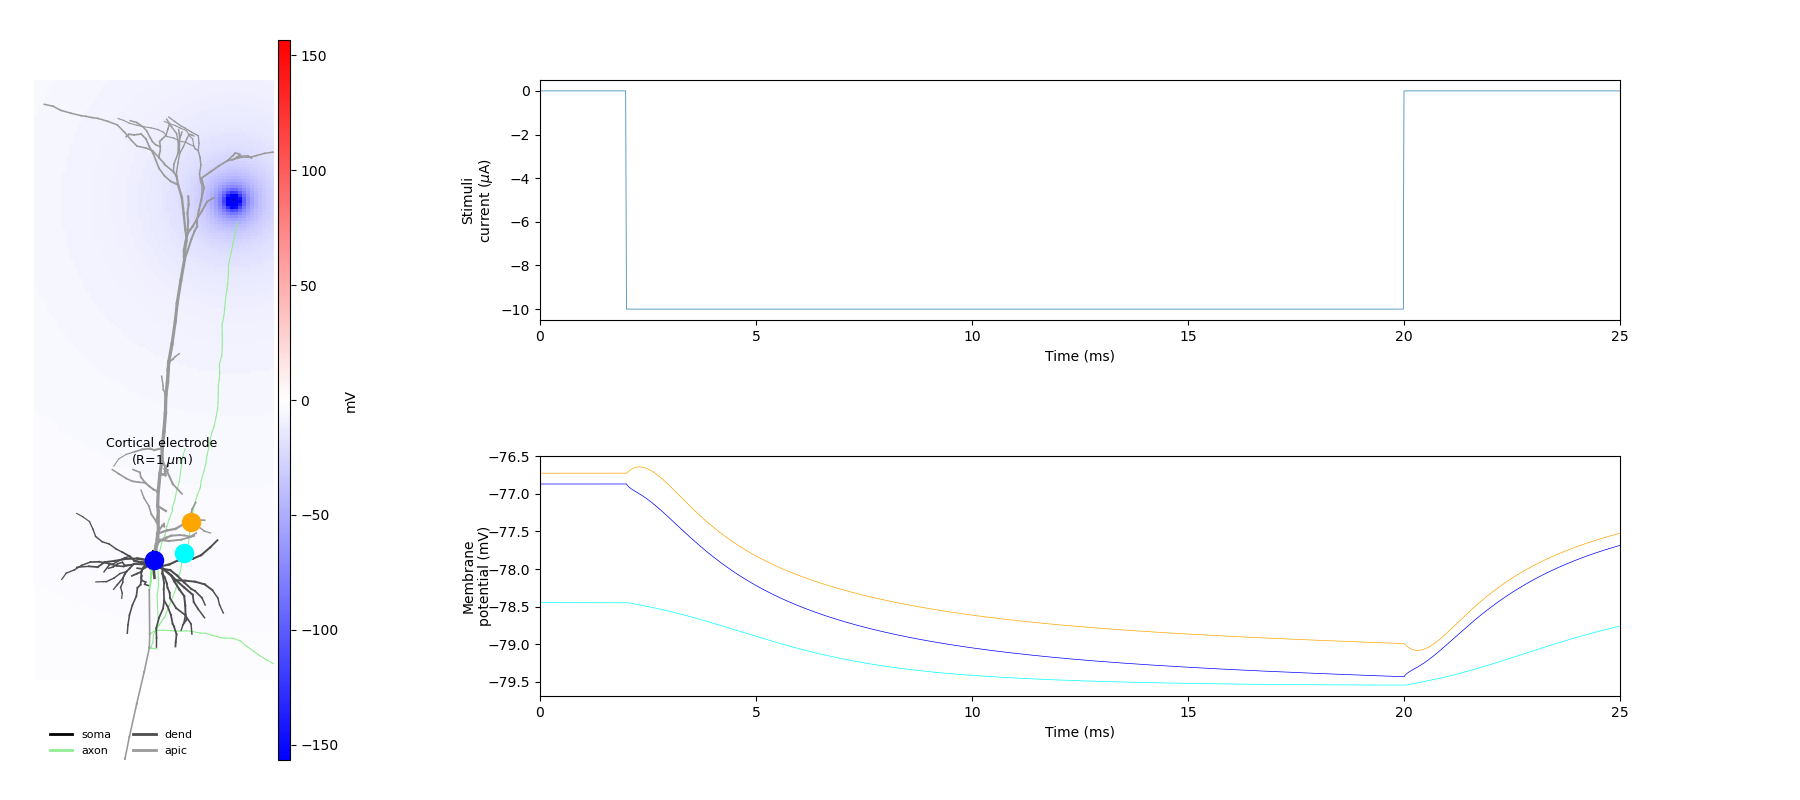
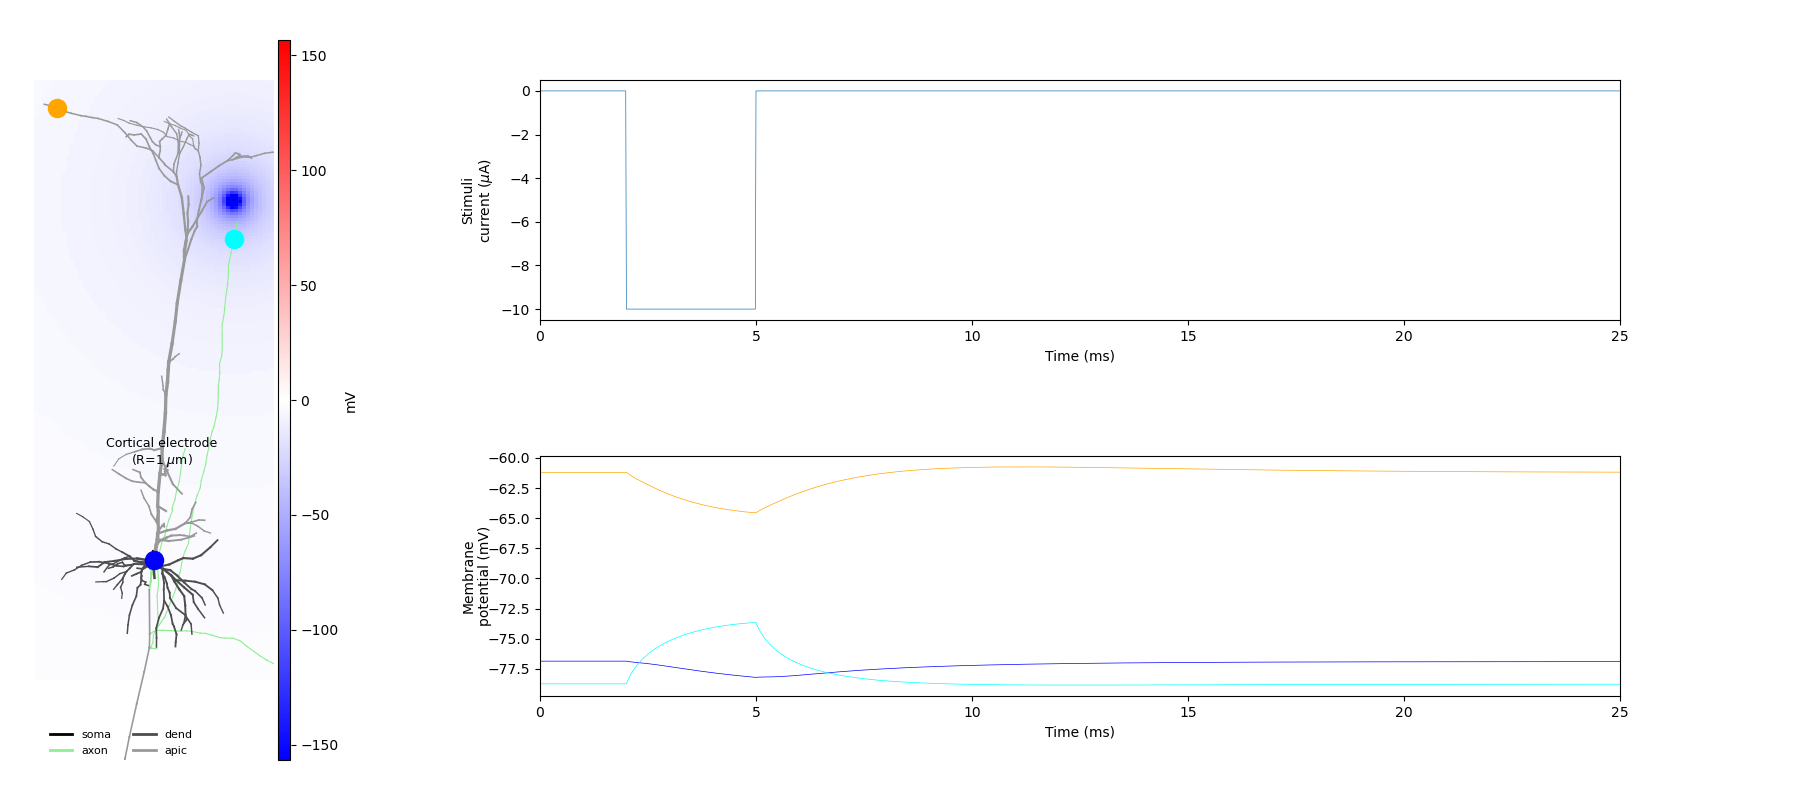
Working on changing measure_idxs from comparment to coordinates

diff --git a/main.py b/main.py
@@ -9,7 +9,11 @@ import sys
 import time
 from os.path import join
 from matplotlib.patches import Ellipse
-np.set_printoptions(threshold=sys.maxsize)
+from mpi4py import MPI
+
+COMM = MPI.COMM_WORLD
+SIZE = COMM.Get_size()
+RANK = COMM.Get_rank()
 
 """
  transmembrane current i soma/utvalgte punkter som func av tid x
@@ -167,6 +171,17 @@ class ExternalPotentialSim:
     def find_time_constant(self):
         pass
 
+    def create_measure_points(self, coords):
+
+        print(coords.shape[0])
+        measure_idxs = []
+
+        for i in range(coords.shape[0]):
+            x, y, z = coords[0, :]
+            measure_idxs.append(self.cell.get_closest_idx(x, y, z))
+
+        measure_idxs
+
     def run_ext_sim(self, cell_models_folder, elec_params, current_amps, positions, measure_idxs, stop_time, passive=False):
 
         self.return_cell(cell_models_folder)
@@ -195,6 +210,8 @@ class ExternalPotentialSim:
 
         self.plot_steady_state(elec_dists[:, 0], ss_pot)
         self.plot_dV(elec_dists[:, 0], dV)
+        coords = np.array([[0, 0, -200], [201, 131, 602], [-242, 43, 929]])
+        self.create_measure_points(coords)
 
         # Freeing up some variables
         I = None
@@ -325,8 +342,8 @@ class ExternalPotentialSim:
         # Simulating cell after all parameters and field has been added
         self.fig = plt.figure(figsize=[18, 8])
 
-        # for m in measure_idxs:
-        #     print((self.cell.xmid[m], self.cell.ymid[m], self.cell.zmid[m]))
+        for m in measure_idxs:
+            print((self.cell.xmid[m], self.cell.ymid[m], self.cell.zmid[m]))
 
         self.cell_plot_idxs = measure_idxs.astype(
             dtype='int')  # List of measurement points

diff --git a/hallermann_single_source_pulse.py b/hallermann_single_source_pulse.py
@@ -8,6 +8,7 @@ import LFPy
 import os
 from os.path import join
 import sys
+import time
 
 cell_models_folder = join(os.path.dirname(__file__), "cell_models")
 
@@ -15,16 +16,18 @@ extPotSim = ExternalPotentialSim(cellsim_Hallermann_params)
 
 
 # Test parameters
-current_amps = [1e4, -1e4, -5e3, -4e3, -3e3,  -1e3]  # uA
-positions = [np.array([[200, 0, 700], ], dtype=float),
-             np.array([[201, 130, 699], ], dtype=float),
-             np.array([[-215, 0, 860], ], dtype=float),
-             np.array([[-150, 0, -180], ], dtype=float),
-             np.array([[-20, 0, 400], ], dtype=float)]
+# current_amps = [1e4, -1e4, -5e3, -4e3, -3e3,  -1e3]  # uA
+# positions = [np.array([[200, 0, 700], ], dtype=float),
+#              np.array([[201, 130, 699], ], dtype=float),
+#              np.array([[-215, 0, 860], ], dtype=float),
+#              np.array([[-150, 0, -180], ], dtype=float),
+#              np.array([[-20, 0, 400], ], dtype=float)]
 
-# current_amps = [-1e4]
-# positions = [np.array([[200, 0, 700], ], dtype=float)]
+current_amps = [-1e4]
+positions = [np.array([[200, 0, 700], ], dtype=float)]
 
-monophasic_pulse_params['stop_time'] = 20
+coordinates = np.array([[0, 0, -200], [201, 131, 602], [-242, 43, 929]])
+
+# monophasic_pulse_params['stop_time'] = 20
 extPotSim.run_ext_sim(cell_models_folder, monophasic_pulse_params, current_amps,
-                      positions, np.array([0, 83, 300]), 20)
+                      positions, np.array([0, 123, 470]), 20)
